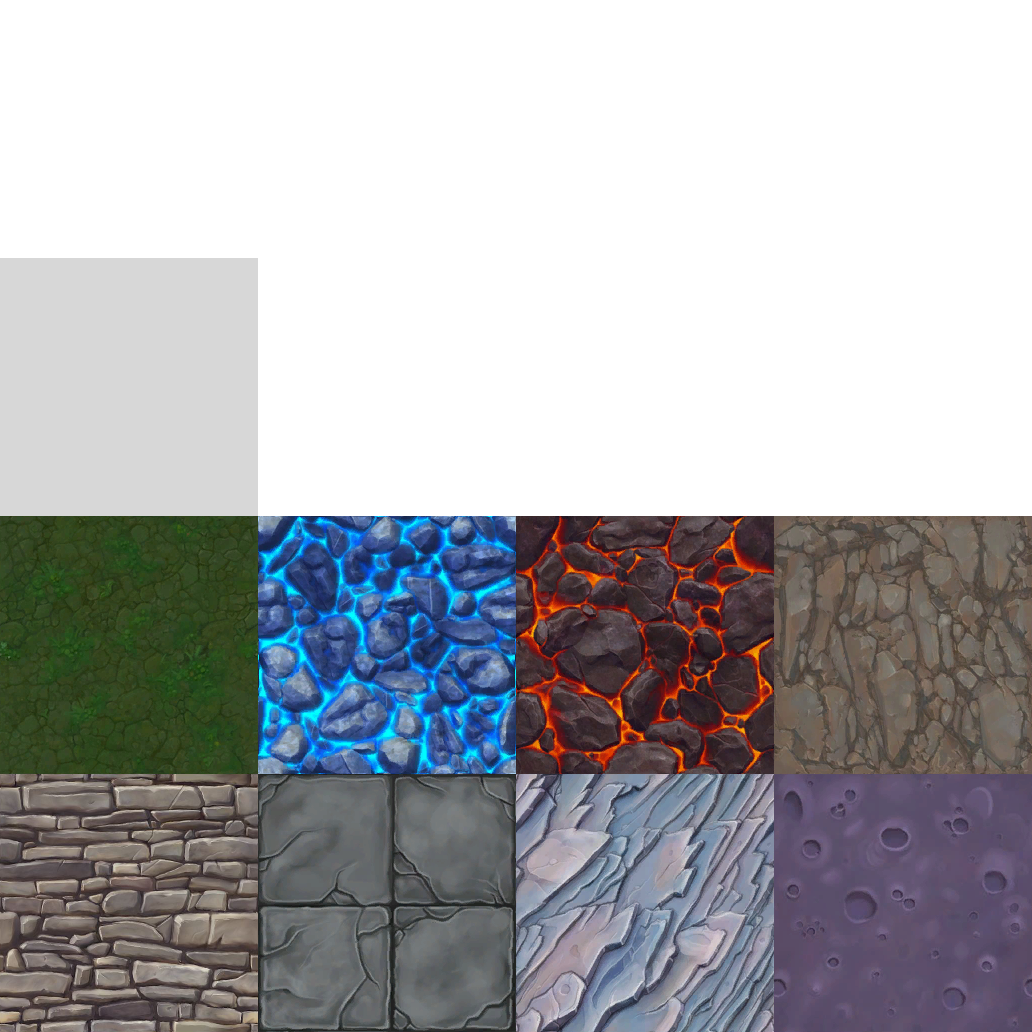
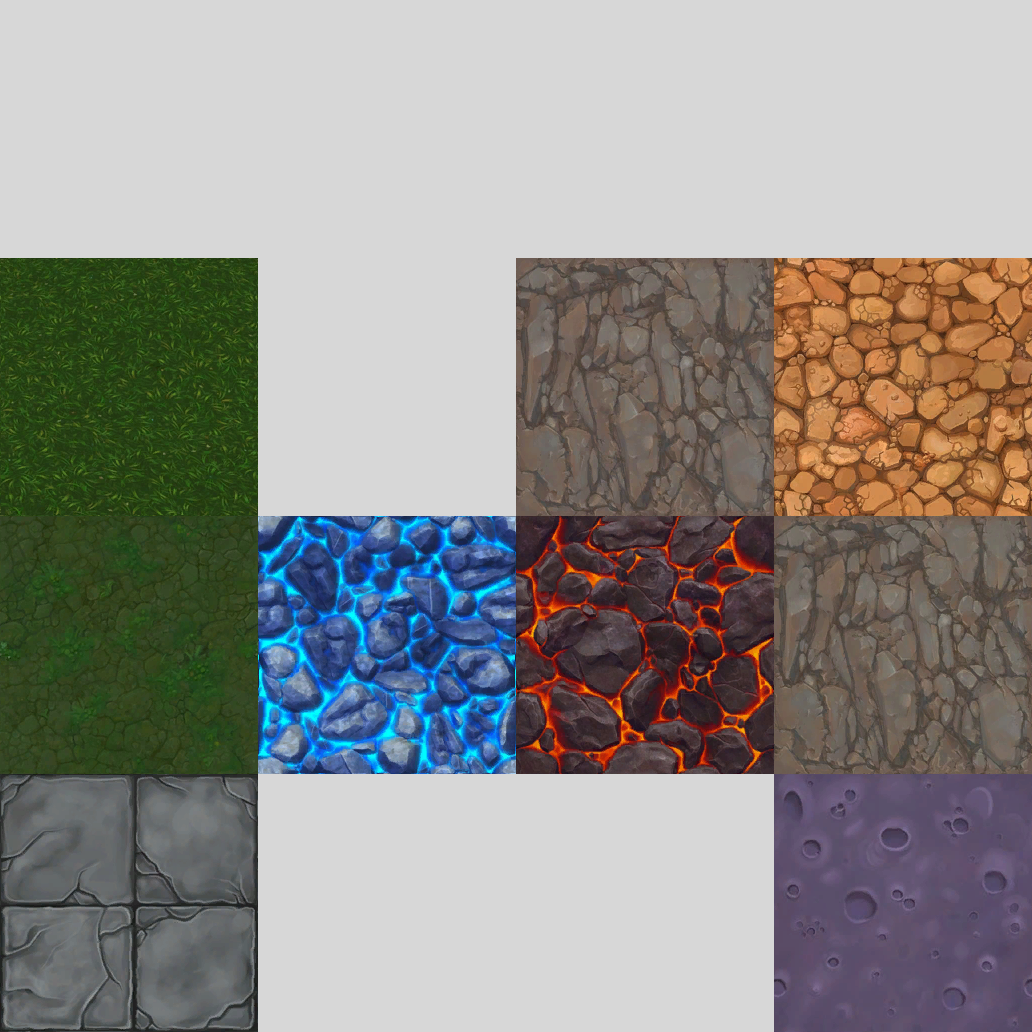
添加了支持16张纹理的shader

diff --git a/Assets/T4M/Scripts/Es_TerrainAtlasMaker.cs b/Assets/T4M/Scripts/Es_TerrainAtlasMaker.cs
@@ -15,17 +15,17 @@ namespace Utility
         {
             Texture2D[] TextureList = new Texture2D[16];
             int sqrCount = 4;
-            char id = '0';
+            int id = 0;
             Color[] Colors = new Color[256*256];
             int len = Colors.Length;
             for(int i = 0; i < len; ++i)
                 Colors[i] = new Color(0, 0, 0, 0);
             for(int i = 0; i < 16; ++i)
             {
-                if (myMaterial.HasProperty("_Splat" + id))
+                if (myMaterial.HasProperty("_Splat" + id.ToString()))
                 {
                     Debug.Log("_Splat" + id);
-                    TextureList[i] = (Texture2D)myMaterial.GetTexture("_Splat" + id);
+                    TextureList[i] = (Texture2D)myMaterial.GetTexture("_Splat" + id.ToString());
                 }
                 else
                 {
